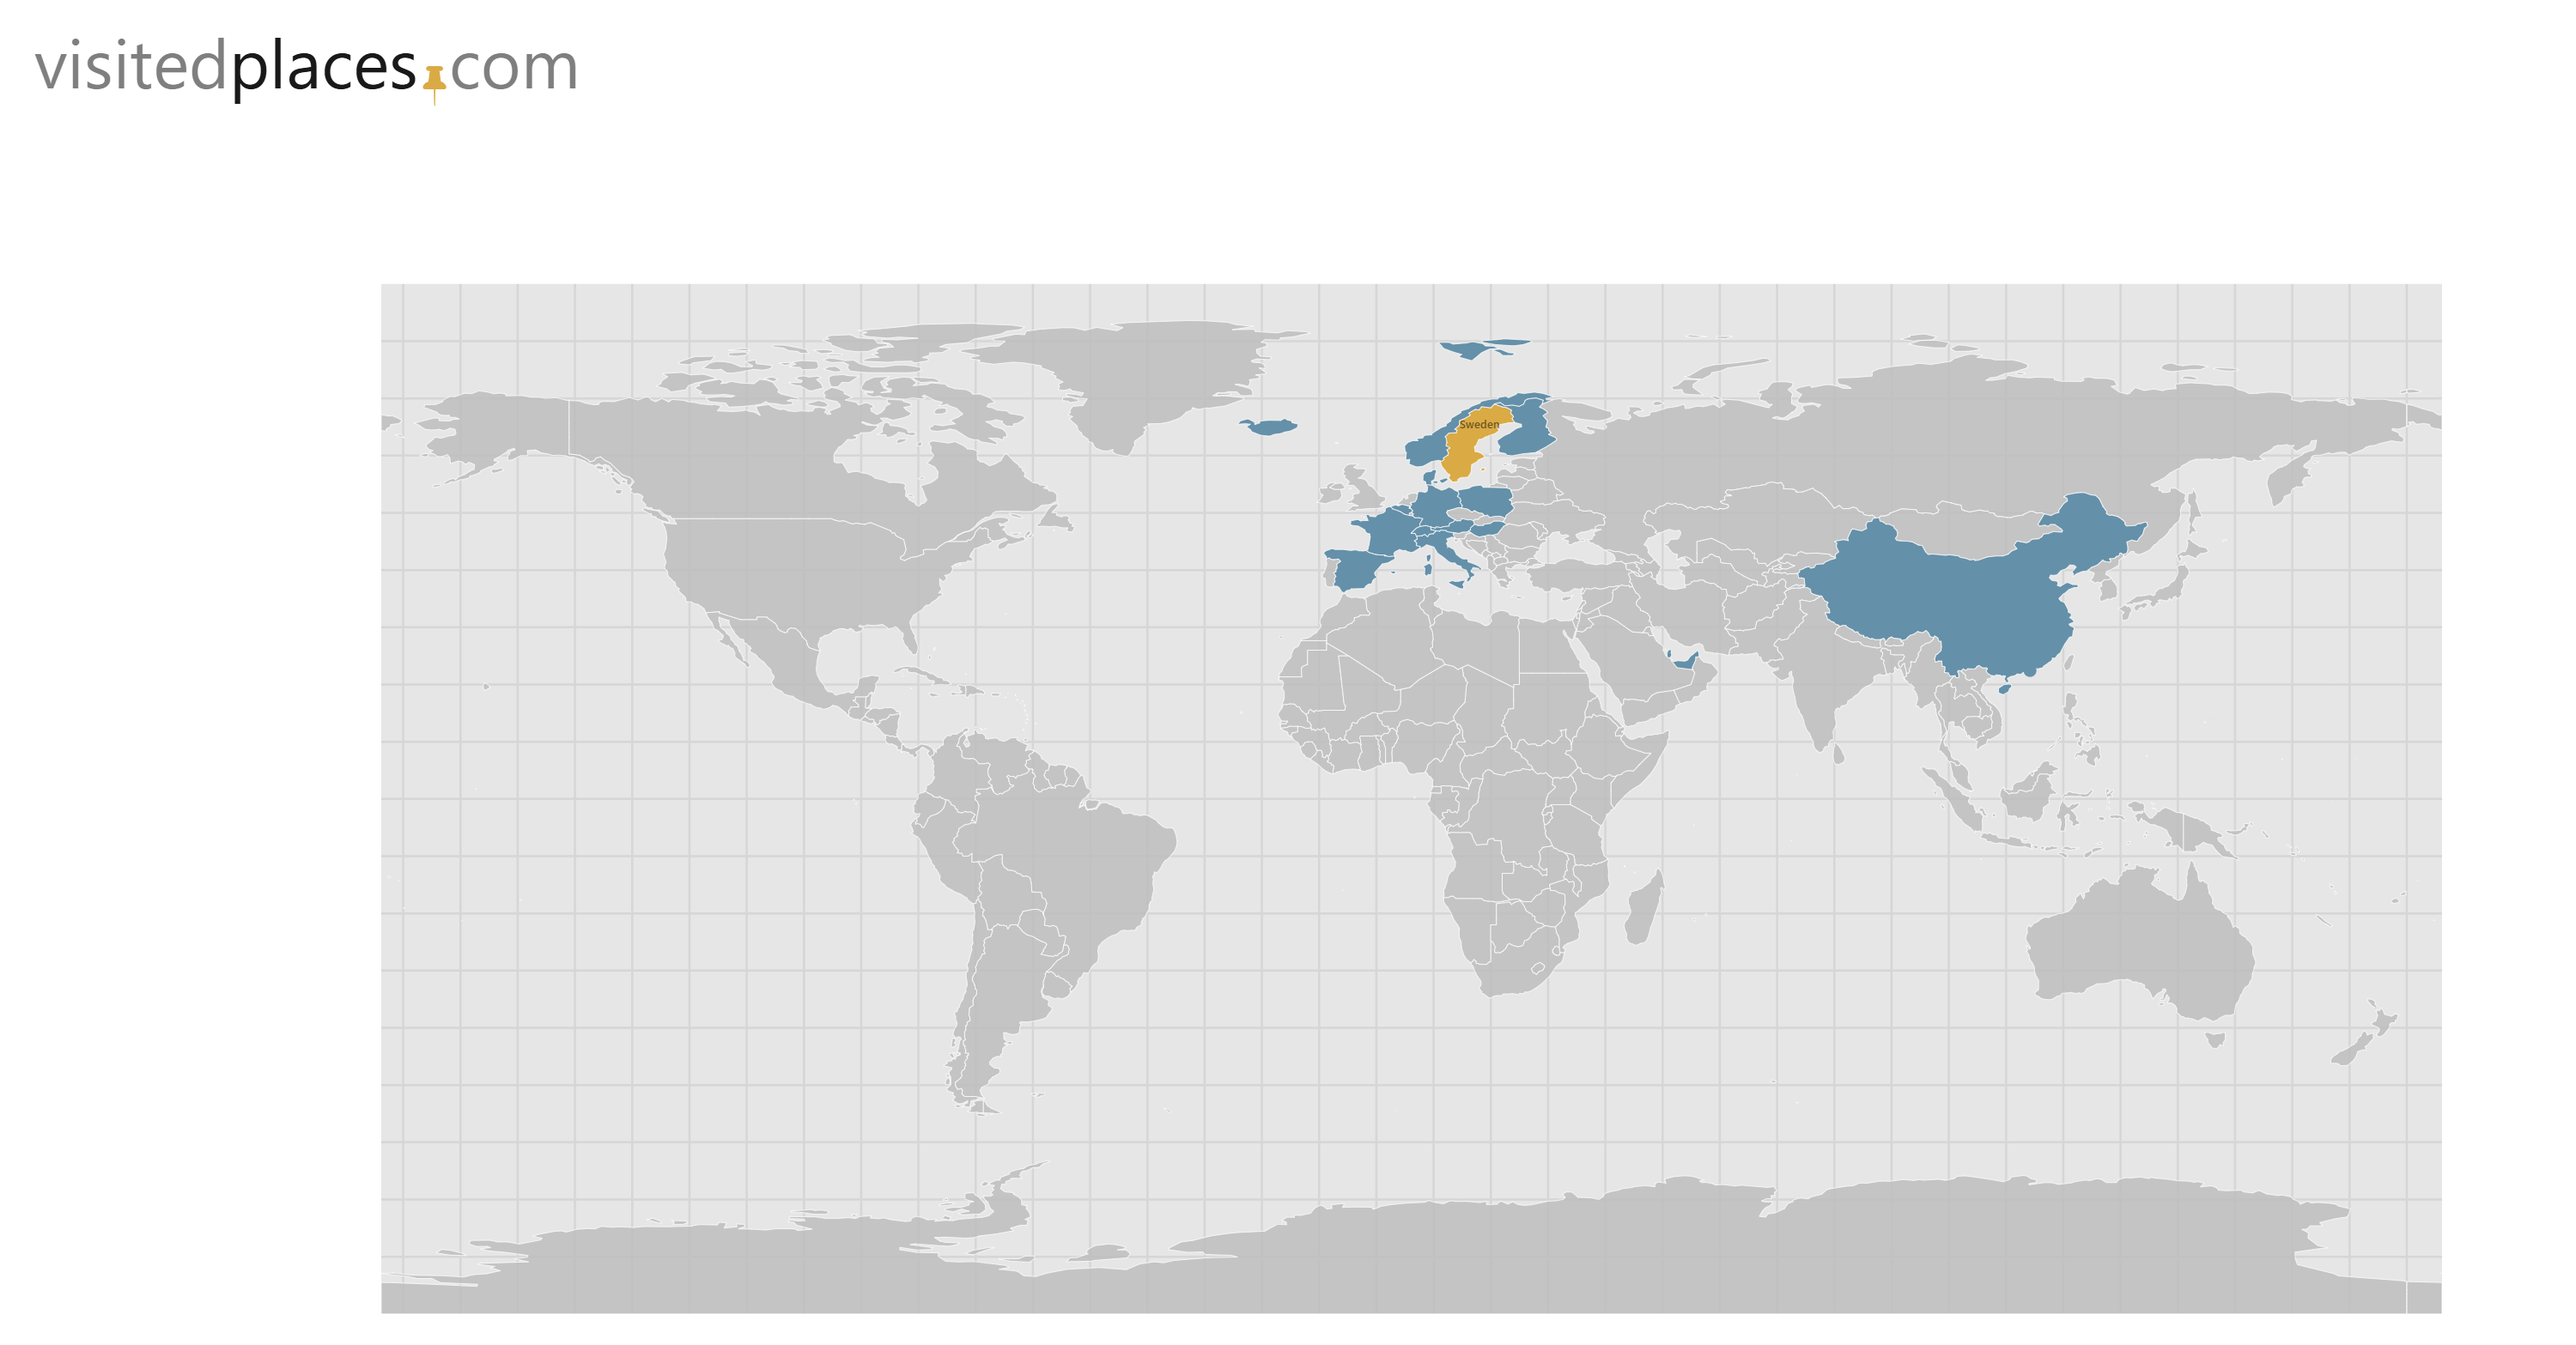
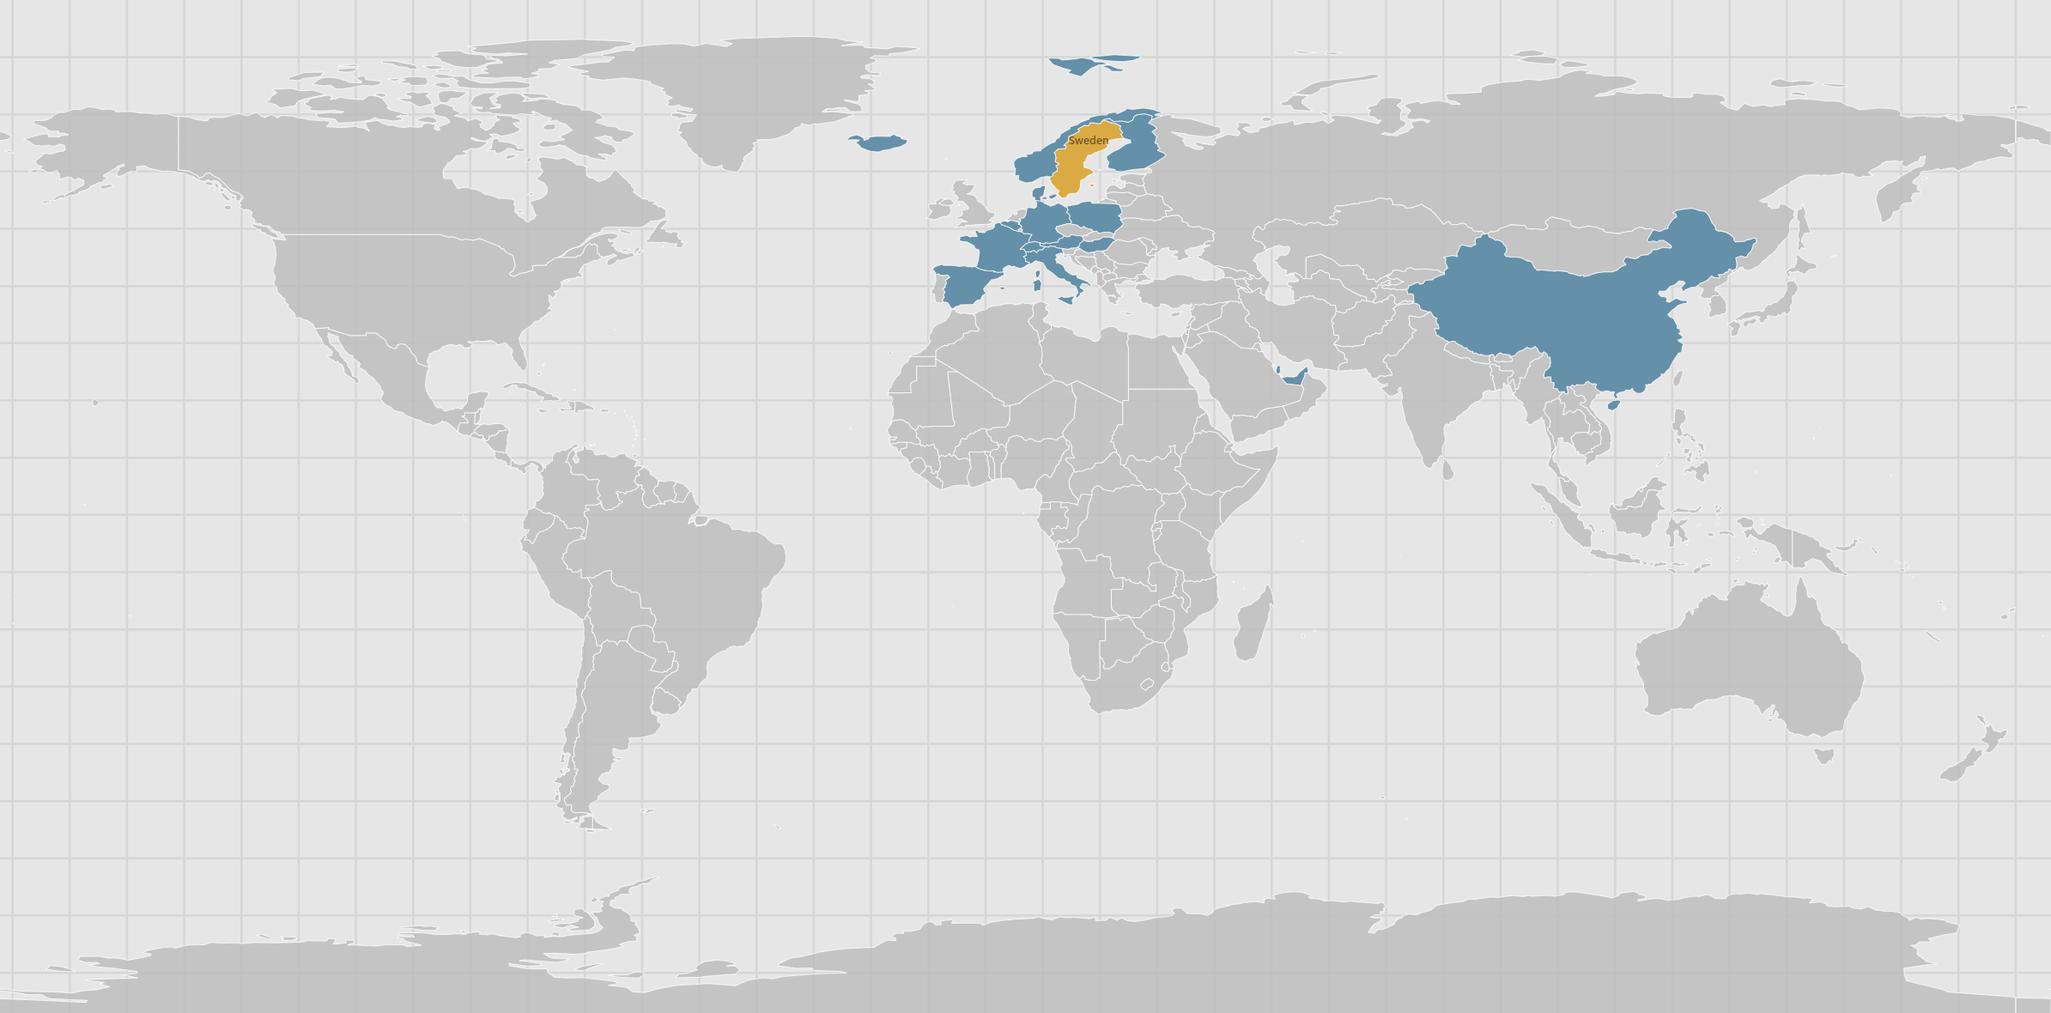
1

diff --git a/_pages/about.md b/_pages/about.md
@@ -62,7 +62,7 @@ Daihui Zhu, Mikael Josefsson
 
 # 🎖 Honors and Awards
 - Avancez Scholarship - Chalmers University of Technology
-- 
+- Scholarship for Academic Excellence - Beijing Jiaotong University
   
 # 📖 Educations
 - Chalmers University of Technology - Master’s in Sustainable Power Engineering and Electromobility
@@ -82,3 +82,4 @@ Daihui Zhu, Mikael Josefsson
 -Conducted Emission Test for pre-compliance with Volvo EMC standard and CISPR 25.
 
 # Gallery
+Now playing my life game - To fill the blank in the world maps! (images/volvo_trucks_logo.jpg)
